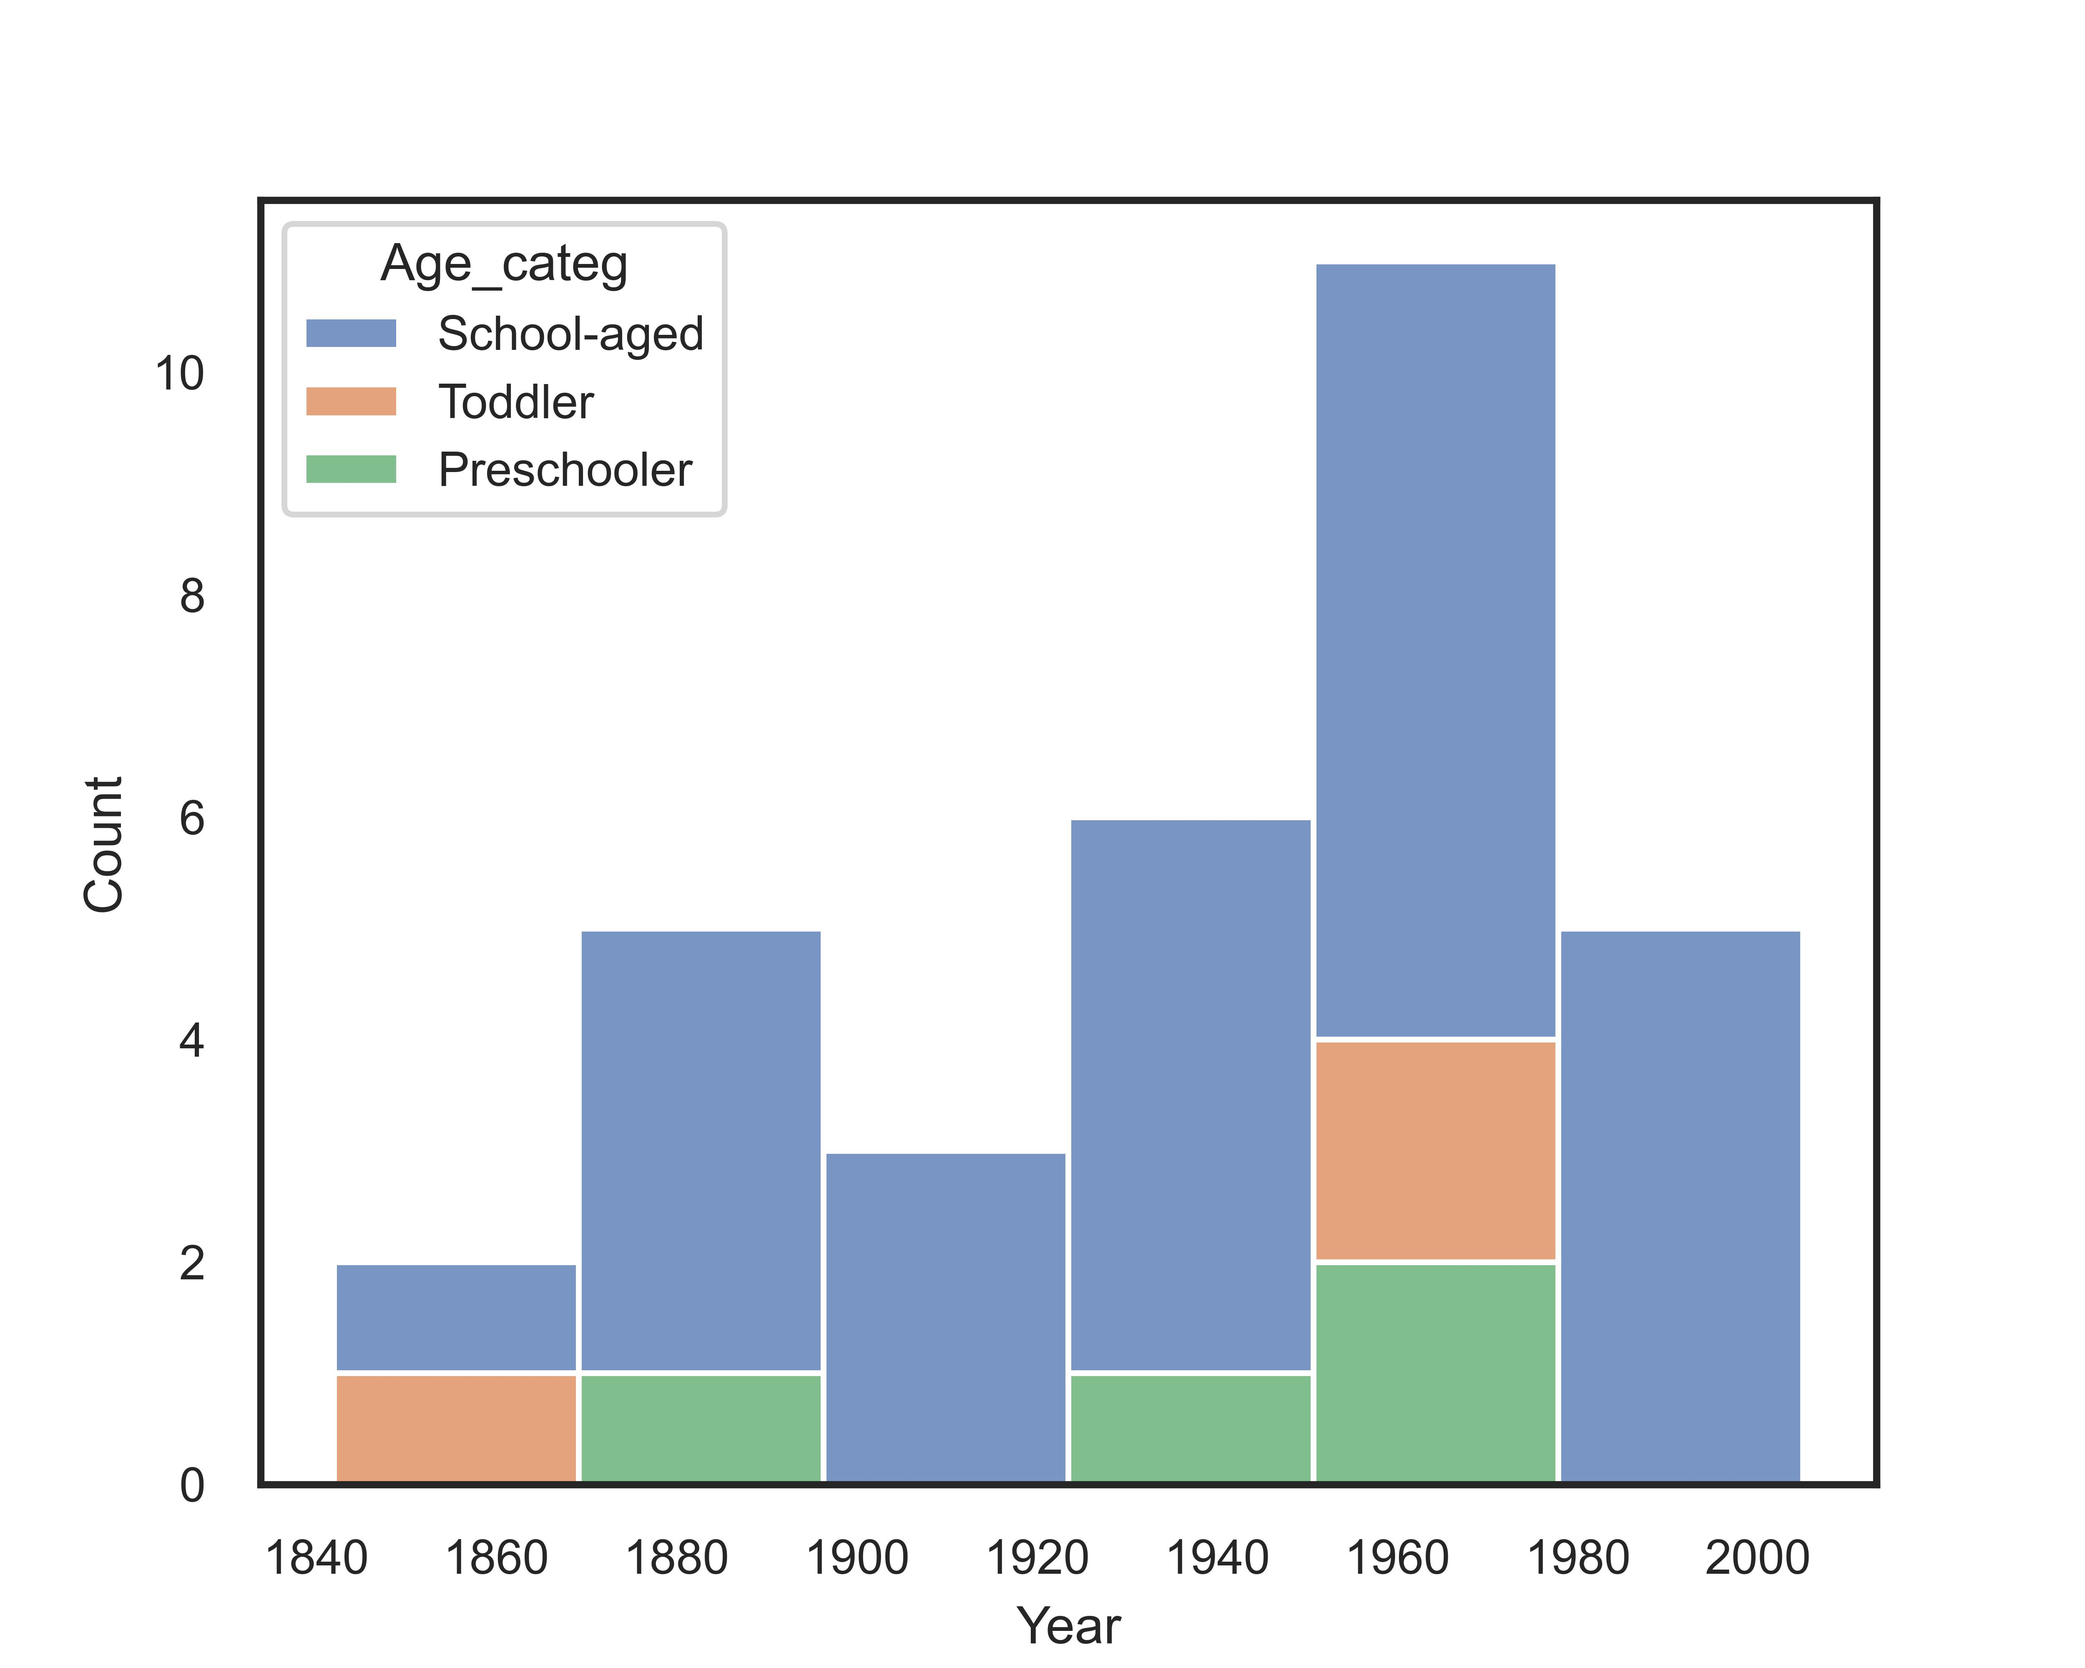
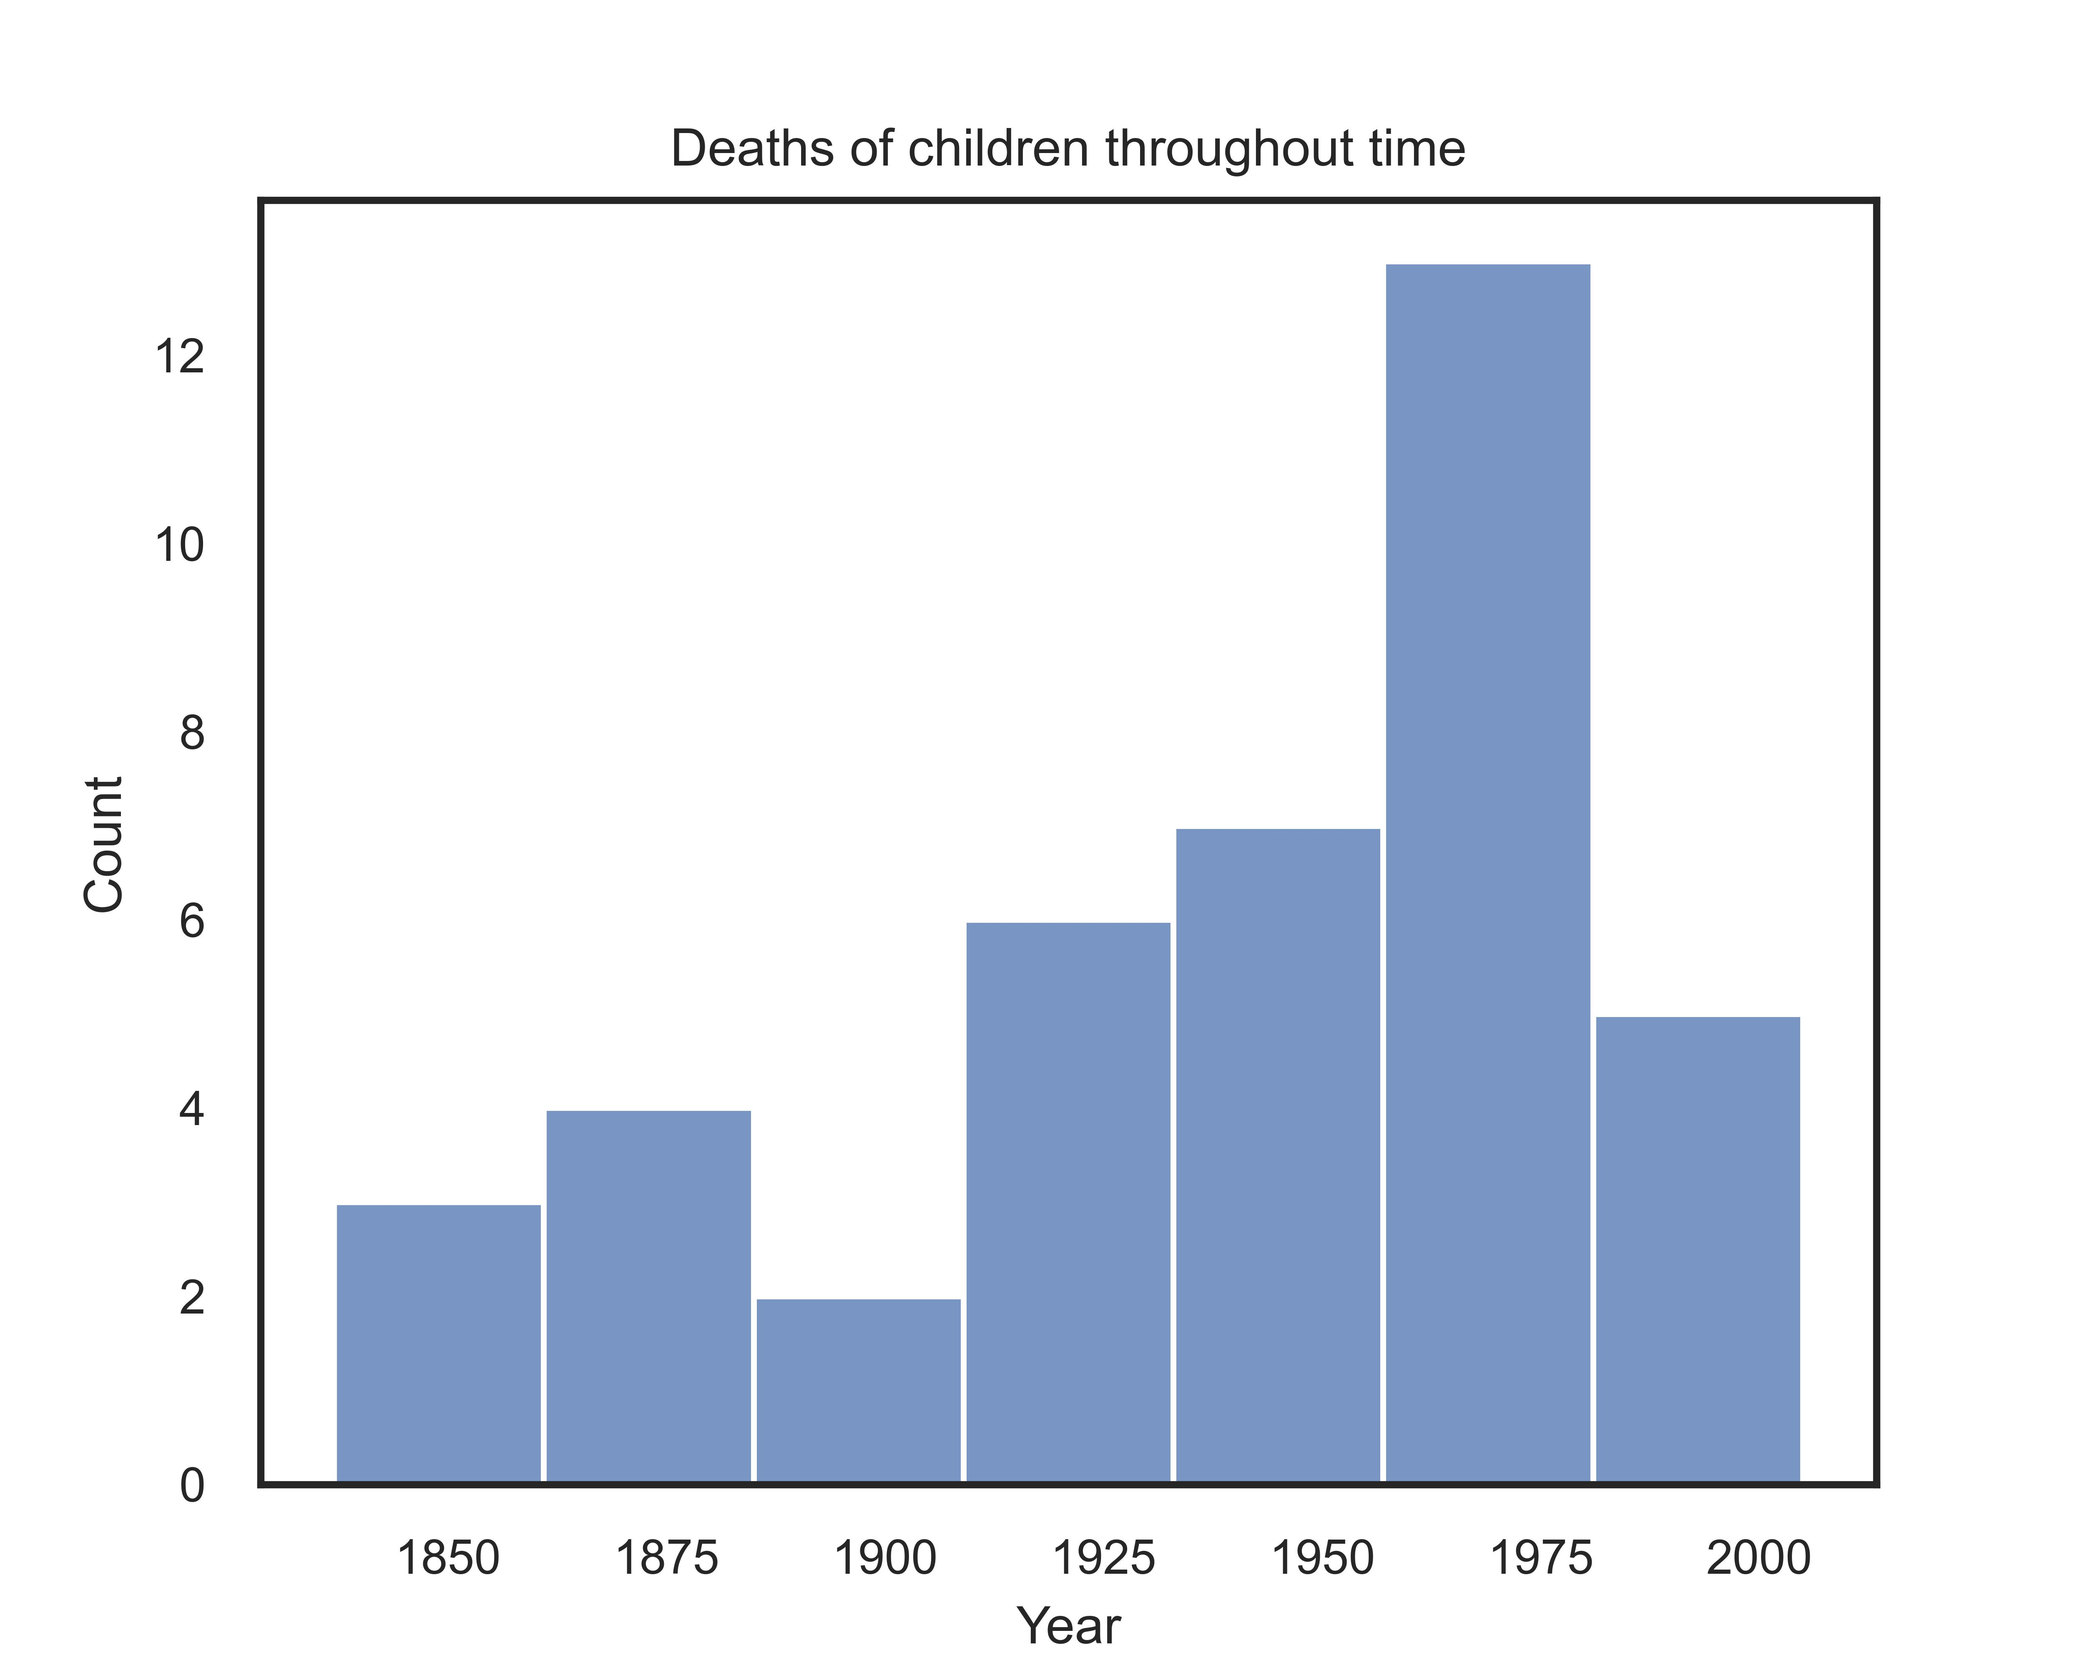
casi

diff --git a/src/visualization.py b/src/visualization.py
@@ -10,7 +10,7 @@ def visualSex(path):
     sns.set(rc={"figure.figsize": (5, 4)}, font_scale=0.75)
     sns.set_style("white")
     plt.figure()
-    sex_gral = sns.countplot(x=df["Sex"], palette="magma")
+    sex_gral = sns.countplot(x=df["Sex"])
     sex_gral.set(title = "Total attacks in men and women")
     sex_gral.bar_label(sex_gral.containers[0])
     sex_gral.figure.savefig("C:/Users/gdcma/Ironhack/Projects/Project-I/images/sex_gral.jpg", dpi=1000);
@@ -36,12 +36,14 @@ def visualHistory(path):
     sns.set_style("white")
     # Attacks throughout history
     plt.figure()
-    history = sns.boxplot(y = "Year", data = df); # There is not much information about shark attacks previous to 1880
+    history = sns.boxplot(x = "Year", data = df); # There is not much information about shark attacks previous to 1880
+    history.set(title = "Total attacks throughout time")
     history.figure.savefig("C:/Users/gdcma/Ironhack/Projects/Project-I/images/history.jpg", dpi=1000);
     # Attacks from 1880
     df_history = df[df["Year"] > 1880]
     plt.figure()
     history1880 = sns.histplot(data=df_history, x="Year")
+    history1880.set(title = "Total attacks throughout time from 1880")
     history1880.figure.savefig("C:/Users/gdcma/Ironhack/Projects/Project-I/images/history1880.jpg", dpi=1000);
     # Deaths from 1880
     plt.figure()
@@ -95,22 +97,27 @@ def kids(path):
     # Attacks to kids throughout history
     plt.figure()
     kid_attacks = sns.histplot(data=mask_kids, x="Year");
+    kid_attacks.set(title = "Attacks suffered by children throughout time")
     kid_attacks.figure.savefig("C:/Users/gdcma/Ironhack/Projects/Project-I/images/kid_attacks.jpg", dpi=1000)
     # Attacks to kids throughout history according to sex
     plt.figure()
     sexkid_attacks = sns.histplot(data=mask_kids, x="Year", hue="Sex", multiple="stack");
+    sexkid_attacks.set(title = "Attacks suffered by boys and girls throughout time")    
     sexkid_attacks.figure.savefig("C:/Users/gdcma/Ironhack/Projects/Project-I/images/sexkid_attacks.jpg", dpi=1000)
     # Deaths of kids throughout history
     plt.figure()
     kid_deaths = sns.histplot(data=mask_kidsfatal, x="Year");
+    kid_deaths.set(title = "Deaths of children throughout time")    
     kid_deaths.figure.savefig("C:/Users/gdcma/Ironhack/Projects/Project-I/images/kid_deaths.jpg", dpi=1000)
     # Deaths of kids throughout history according to sex
     plt.figure()
     sexkid_deaths = sns.histplot(data=mask_kidsfatal, x="Year", hue="Sex", multiple="stack");
+    sexkid_deaths.set(title = "Deaths of boys and girls throughout time")
     sexkid_deaths.figure.savefig("C:/Users/gdcma/Ironhack/Projects/Project-I/images/sexkid_deaths.jpg", dpi=1000)
     #Age of the deaths throughout history
     plt.figure()
     agekid_deaths = sns.lineplot(data=mask_kidsfatal, x="Year", y="Age");
+    agekid_deaths.set(title = "Age of deaths of children throughout time")
     agekid_deaths.figure.savefig("C:/Users/gdcma/Ironhack/Projects/Project-I/images/agekid_deaths.jpg", dpi=1000)
     plt.figure()
     scatteredagekid_deaths = sns.scatterplot(data=mask_kidsfatal, x="Year", y ="Age"); #Not clear, recategorise the Age
@@ -131,6 +138,7 @@ def kids(path):
     # Category of age of the attacks throughout history
     plt.figure()
     agekid_attacks = sns.histplot(data=mask_kids, x="Year", hue = "Age_categ", multiple="stack");
+    agekid_attacks.set(title = "Attacks by age category of children throughout time")
     agekid_attacks.figure.savefig("C:/Users/gdcma/Ironhack/Projects/Project-I/images/agekid_attacks.jpg", dpi=1000)
     # Category of age of the deaths throughout history
     plt.figure()
@@ -154,10 +162,12 @@ def lunch(path):
     # Moment of day sharks attack the most
     plt.figure()
     lunch = df["Moment"].value_counts().plot.pie(autopct="%.1f%%"); # NaN: 1918; and not NaN: 2895
+    lunch.set(title = "Percentage of attacks by moment of day");
     lunch.figure.savefig("C:/Users/gdcma/Ironhack/Projects/Project-I/images/lunch.jpg", dpi=1000)
     # Moment of day sharks attack the most according to sex
     plt.figure()
     sex_lunch = sns.countplot(x=df["Moment"], hue=df["Sex"], palette="magma");
+    sex_lunch.set(title = "Moment of day sharks attack the most according to sex");
     sex_lunch.figure.savefig("C:/Users/gdcma/Ironhack/Projects/Project-I/images/sex_lunch.jpg", dpi=1000)
     # Open images:
     os.startfile("C:/Users/gdcma/Ironhack/Projects/Project-I/images/lunch.jpg")
@@ -170,5 +180,4 @@ visualHistory("C:/Users/gdcma/Ironhack/Projects/Project-I/data/df_projectI.csv")
 visualDeathSex("C:/Users/gdcma/Ironhack/Projects/Project-I/data/df_projectI.csv")
 kids("C:/Users/gdcma/Ironhack/Projects/Project-I/data/df_projectI.csv")
 lunch("C:/Users/gdcma/Ironhack/Projects/Project-I/data/df_projectI.csv")
-
 

diff --git a/main.py b/main.py
@@ -1,13 +1,20 @@
+import pandas as pd
+import seaborn as sns
+import matplotlib.pyplot as plt
+import os
+
+os.chdir("C:/Users/gdcma/Ironhack/Projects/Project-I/")
 from src.cleaning import cleaningTotal
 from src.visualization import visualSex
 from src.visualization import visualHistory
 from src.visualization import visualDeathSex
 from src.visualization import kids
 from src.visualization import lunch
+from src.visualization import visualSex
 
-cleaningTotal("C:/Users/gdcma/Ironhack/Projects/attacks.csv")
-visualSex("C:/Users/gdcma/Ironhack/Projects/Project-I/data/df_projectI.csv")
-visualHistory("C:/Users/gdcma/Ironhack/Projects/Project-I/data/df_projectI.csv")
-visualDeathSex("C:/Users/gdcma/Ironhack/Projects/Project-I/data/df_projectI.csv")
-kids("C:/Users/gdcma/Ironhack/Projects/Project-I/data/df_projectI.csv")
-lunch("C:/Users/gdcma/Ironhack/Projects/Project-I/data/df_projectI.csv")
+cleaningTotal("../attacks.csv")
+visualSex("data/df_projectI.csv")
+visualHistory("data/df_projectI.csv")
+visualDeathSex("data/df_projectI.csv")
+kids("data/df_projectI.csv")
+lunch("data/df_projectI.csv")

diff --git a/README.md b/README.md
@@ -20,73 +20,82 @@ This code was written in Python/Jupyter Notebook, using the following libraries:
 - What is a shark's favourite meal?
 
 ## Hypotheses:
-- Men suffer more shark attacks across time
-- Men suffer more deadly shark attacks across time
-- Girls and boys suffer similarly shark attacks and related deaths.
+- Men suffer more shark attacks throughout time
+- Men suffer more deadly shark attacks throughout time
+- Girls and boys suffer similar shark attacks and related deaths.
 - Sharks prefer to attack in the morning
 
-## Men suffer more shark attacks across time:
+## Shark attacks throughout time:
+First of all, before considering shark attacks by sex or age, we take a look at the total of shark encounters, fatal or not, from the considered registries.
 
+![History](image-5.png)
 
-## Men suffer more deadly shark attacks across time
+As we can see, the events happen mostly between the end of the XIX century and the present.
+That's the reason we are going to focus on the mishaps taking place in this period, unless otherwise especified.
 
+In the next chart, we can see that the total amount of shark attacks increases over time, and presents two peaks during its progression, one the 60's and other one in the present time.
 
-## Girls and boys suffer similarly shark attacks and related deaths.
+![History_from_1880](image-6.png)
 
+## A gender issue: Shark attacks throughout time by sex
+There are overwhemingly more men who suffer shark attacks than women. 86,4% of all the attacks ever recorded have occured to a man.
 
-## Sharks prefer to attack in the morning
+![Alt text](image-10.png)
 
+We can appreciate the spike of attacks in the 60's affecting mainly men, while the spike taking place in present time shows a progressive implication in this tragedy of the female gender.
 
+![Sex_from_1880](image-9.png)
 
+### Men suffer more deadly shark attacks throughout time
+Not only men suffer more from shark attacks, but their attacks are more deadly, as shown in the following charts.
 
+![Alt text](image-12.png)
+![Alt text](image-13.png)
 
+23,4% of the attacks suffered by men are deadly, while 18,0% of the attacks suffered by women are. This difference is yet to be analysed to know if it's statistically significant.
 
+![Deaths_by_sex_1880](image-14.png)
+In this image we can appreciate the spike in deaths happening in the 60's spike of shark attacks
 
-In this first inquiry, we recieved conclusive results, albeit with some caveats. An important thing to note when looking at this data: the general reporting of shark attacks between 1900-1950 is not very thorough.
+### Girls and boys involved in shark attacks and related deaths
+We can appreciate differences between men and women, but we cannot conclude that these differences stay the same during a life time. Reckless behaivour might be a gender issue, but it can be allocated within the adult population. 
 
-Therefore, our conclusions about the nature of fatal shark attacks before 1980 should be taken with a grain of salt. That being said, the data is clear: all of the shark attacks recorded before 1920(in our dataset) were fatal, with a signficant portion of the attacks before 1980 also being fatal (but not all)
+To know if there are differences between boys and girls before toxic masculinity throws males into the sharks' arms, we look at the evolutions of attacks in children by sex.
 
-year_plot
+![Boys_girls_time](image-18.png)
 
-In the violinplot above, we can see that there are NO non-fatal attacks prior to roughlt 1930 (that were recorded). We can also see that there is a significant increase in (reported) attacks overall after 1930, with non-fatal making up the majority of the newer reported attacks
+We can see that there exist a progression of attacks in girls since 2000, but still not able to reach the number of attacks suffered by boys.
 
-year_swarm
+As for deadly attacks, we can see the spike of deaths in children during the 60's decade, proporcionately affecting girls more.
 
-The swarm chat we see here provides a little bit more detail about the ratio of fatal shark attacks per year. Here we can see that 1940 is really the cutoff date for "fatal-only" shark attacks.
+![Fatal_boys_girls_time](image-19.png)
 
-Shark attacks in the Southern Hemisphere
-This inquiry was probably the most conclusive of all my 4 hypotheses.
+### Age of children dying from shark attacks
+The following graph suggest that toddlers are not usually victims of deadly shark attacks, but the spike in the 60's seems to also have involved the death of very young kids.
 
-hemisphere_heatmap
+![Deaths_kids_time](image-21.png)
 
-In this heatmap, we can see very clearly that there is a huge difference is total number of fatal shark attacks per hemisphere, with the southern hemisphere being by far more life-threatening.
+This is more clear after recategorising the age of the children.
 
-hemisphere_bar
+![Deaths_kids_age](image-22.png)
 
-We can also see that there is a significant difference in overall total attacks; with the Northern hemisphere being largely safer than the South when we look at non-fatal attacks
+## Sharks' favourite lunch
+For sharks, breakfast is not the most important meal of the day, lunch is. Most of the shark attacks take place duering the afternoon, followed by morning
 
-Shark attacks on the West vs East Coast of the USA
-My intitial thought was that West Coast sharks would be as mellow as their land locked neighbors in California and Oregon. However, the numbers proved that my initial expectations were far from correct:
+![Meal](image-24.png)
 
-us_attack_heatmap
+Sharks don't seem to have a prefered gender for each meal.
 
-In fact, we can very clearly see two things:
+![Meal_sex](image-25.png)
 
-There is no difference in fatal shark attacks when we look at both coasts
-West Coast sharks attack more frequent overall, meaning that while you're more likely to get attacked on the west coast, you're less likely to die because of it
-us_attack_bar
-
-As we can see in this graph, the West Coast represents a much larger proportion of overall shark attacks in the US. From this data we can also see that the ratio of fatal:non-fatal attacks is WORSE in the East, meaning a East Coast shark is more likely to kill you. (this kind of proves my theory, but not really)
-
-Shark attacks in Australia have the highest chance of fatality.
-We already know that the sharks in the Southern hemisphere are way more likely to kill you. It stands to reason that sharks from Australia (also known as the country where everything wants to kill you) are more likely to be involved in fatal attacks. And the survey says....
-
-dangerous_waters
-
-The answer should come as no surprise: If you're a human and you live in Australia....leave. Interestingly, the United States has a much higher frequency of shark attacks, but the sharks take pity on American swimmers at a much higher rate than Australian sharks.
 
 ## In Conclusion
-Be glad you were born in this era, otherwise you'd probably be dead already due to shark attack
-If you live south of the Ecuator, reconsider swimming
-If you live in the US, move to the West Coast: the sharks are friendlier ;)
-If you're Australian, don't trust any sharks
+The 60's was the golden age of sharks.
+
+Men are more likely to be attacked by a shark, and also die from it.
+
+The progression in women attacks during present times, as women reclaim their place in the seas, suggests possible trend changes in the future.
+
+Boys are more prone to suffer from shark attacks than girls, but as girls also reclaim their place in the seas, it is possible to find trend changes in the future.
+
+Sharks are not early birds. They enjoy a long night of sleep, and a lunch under the sun.
